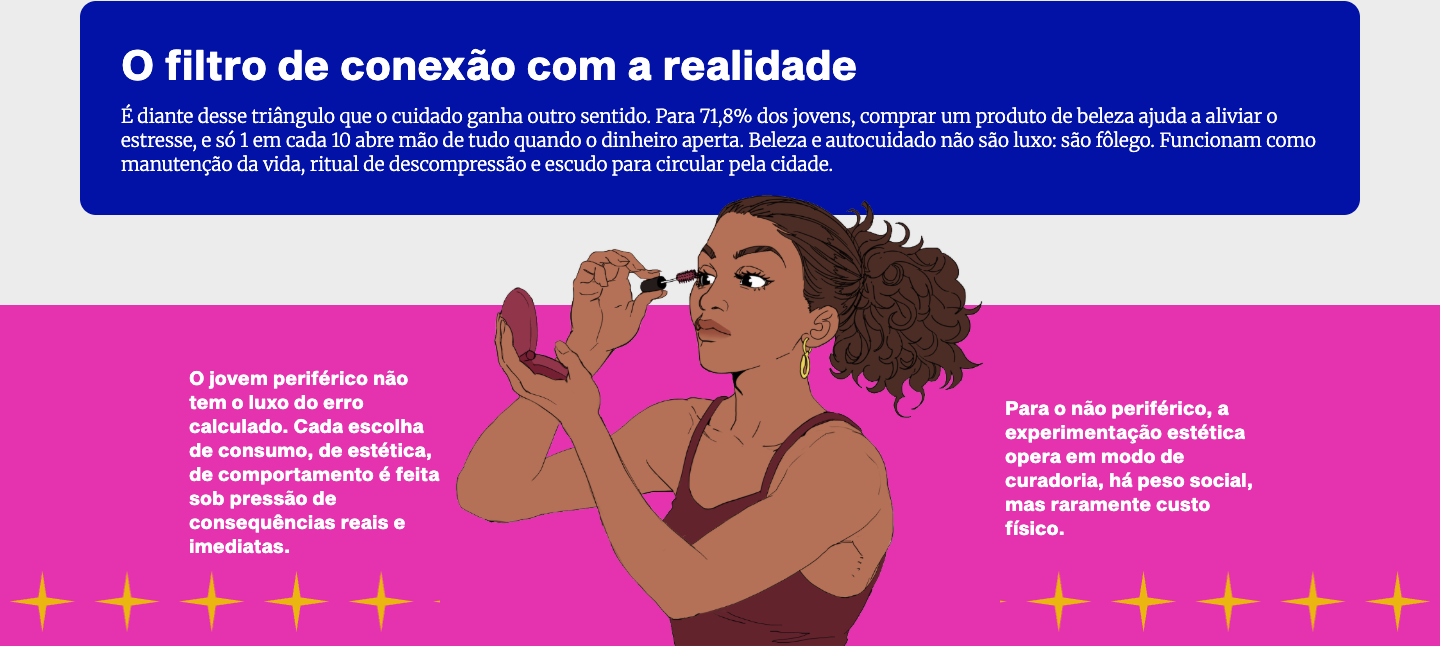
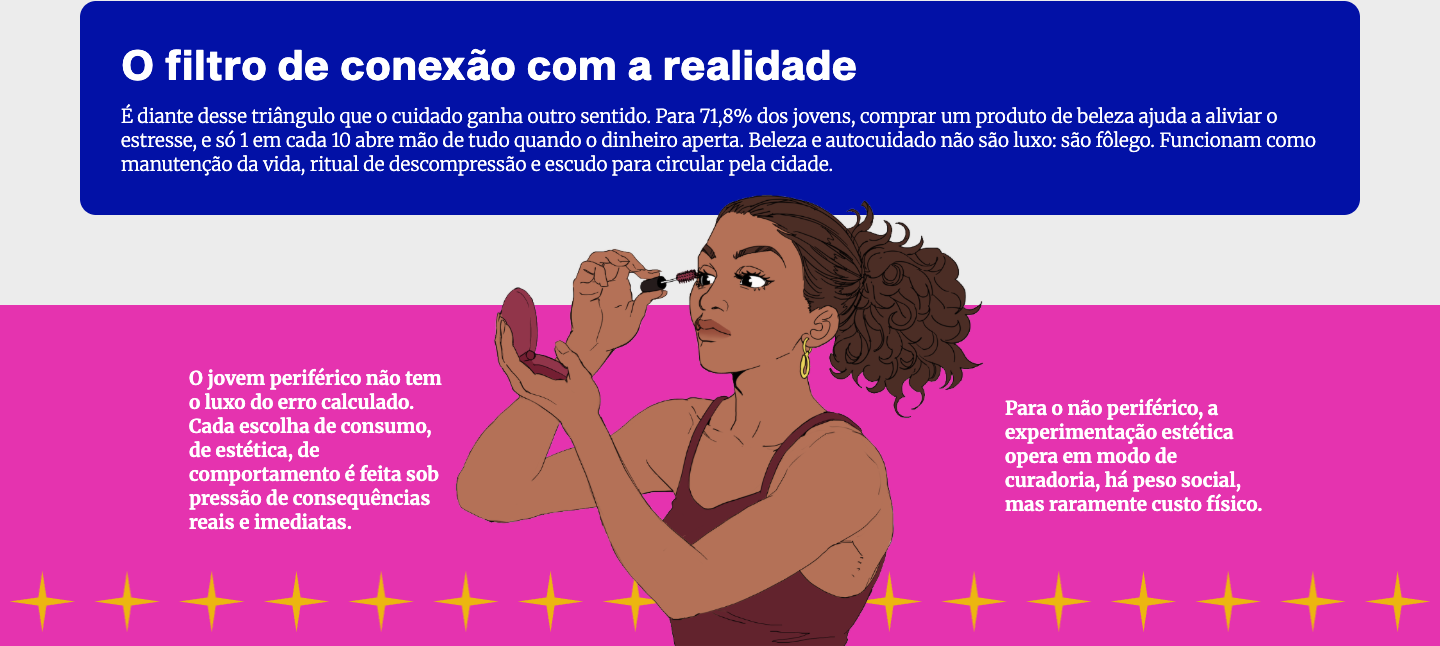
Match desktop care typography and continuous star row

diff --git a/design.css b/design.css
@@ -1104,3 +1104,9 @@ tbody th { color: white; background: var(--pink); border-radius: 12px; font-weig
   }
   .care-stage::after { content: none; }
 }
+
+/* Desktop reference: continuous stars behind the portrait and serif notes. */
+@media (min-width: 721px) {
+  .care-stage::after { mask-image: none; }
+  .care-note { font-family: var(--body); font-weight: 700; }
+}
